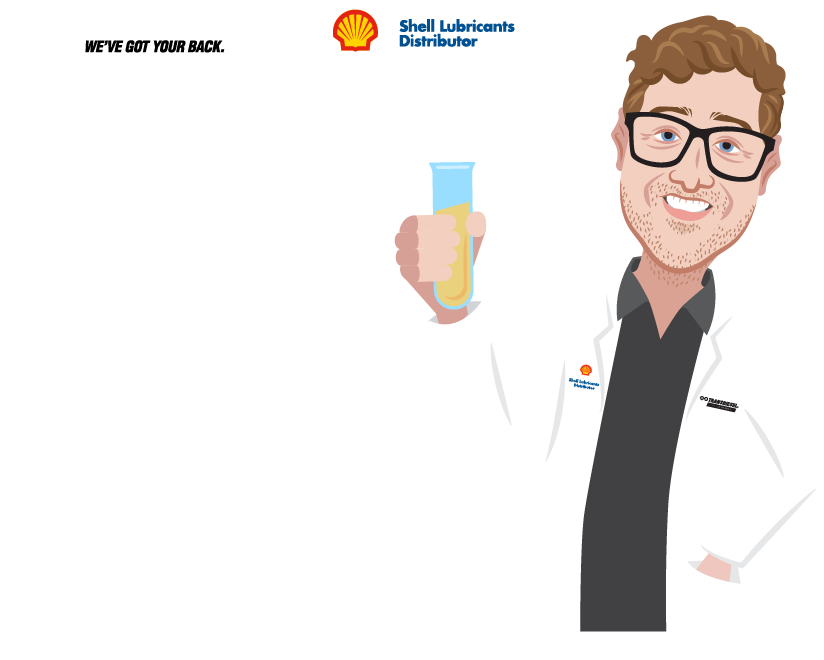
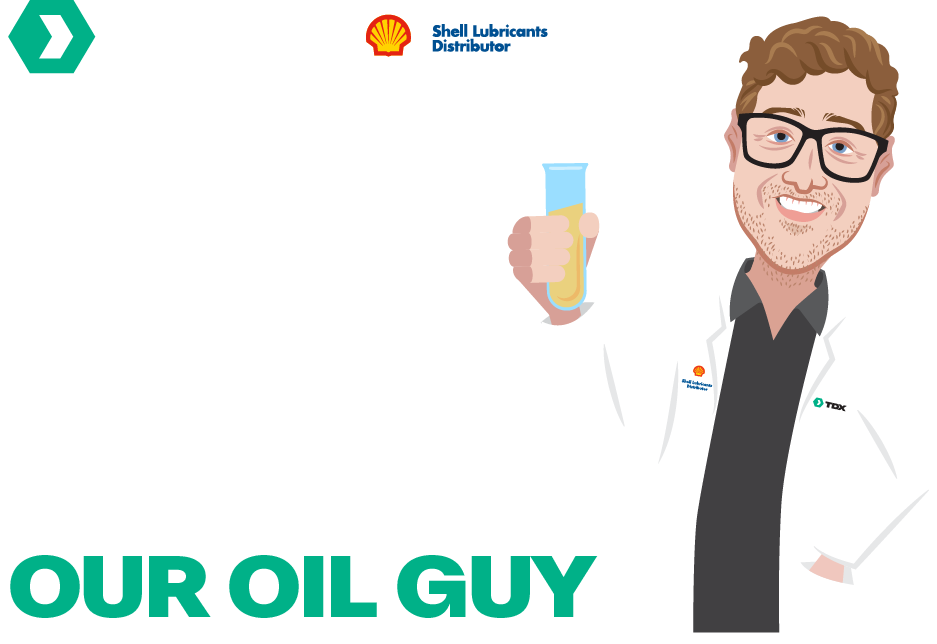
update brand, type etc

diff --git a/html/ask-rob.html b/html/ask-rob.html
@@ -5,23 +5,22 @@
 <head>
 
 
-    <title>TDX. We've got your back.</title>
+    <title>TDX. Ask Rob the Oil Guy.</title>
     <meta charset="utf-8" />
     <meta name="viewport" content="width=device-width, minimum-scale=1, initial-scale=1, shrink-to-fit=no">
-    <meta name="twitter:title" property="og:title" content="TDX. We've got your back." />
+    <meta name="twitter:title" property="og:title" content="TDX. Ask Rob the Oil Guy." />
     <meta name="twitter:card" content="TDX Ltd">
     <meta name="twitter:site" property="og:site_name" content="TDX Ltd" />
-    <meta name="description" property="og:description" content="100% Kiwi owned & operated, serving New Zealand’s equipment needs since 1980." />
+    <meta name="description" property="og:description" content="100% Kiwi owned & operated, serving New Zealand's equipment needs since 1980." />
     <meta name="twitter:image" property="og:image" content="https://www.tdxltd.co.nz/images/icons/200x200profile.png" />
     <meta property="og:type" content="website" />
-    <meta name="twitter:url" property="og:url" content="https://www.tdxltd.co.nz" />
-    <link rel="apple-touch-icon-precomposed" sizes="76x76" href="/images/icons/apple-touch-icon-76x76-precomposed.png">
-    <link rel="apple-touch-icon-precomposed" sizes="120x120" href="/images/icons/apple-touch-icon-120x120-precomposed.png">
-    <link rel="apple-touch-icon-precomposed" sizes="152x152" href="/images/icons/apple-touch-icon-152x152-precomposed.png">
-    <link rel="apple-touch-icon-precomposed" sizes="167x167" href="/images/icons/apple-touch-icon-167x167-precomposed.png">
-    <link rel="apple-touch-icon-precomposed" sizes="180x180" href="/images/icons/apple-touch-icon-180x180-precomposed.png">
-    <link rel="icon" sizes="192x192" href="/images/icons/favicon-192.png">
-    <link rel="shortcut icon" type="image/x-icon" href="/images/icons/favicon.ico">
+    <meta name="twitter:url" property="og:url" content="https://www.tdxltd.co.nz/ask-rob" />
+
+    <link rel="icon" href="/favicon.ico">
+    <link rel="icon" href="/images/icons/icon.svg" type="image/svg+xml">
+    <link rel="apple-touch-icon" sizes="180x180" href="/images/icons//apple-touch-icon.png">
+    <link rel="icon" type="image/png" sizes="32x32" href="/images/icons/favicon.png">
+    <link rel="icon" type="image/png" sizes="16x16" href="/images/icons/favicon@0.5x.png">
     
     <!-- css -->
     <style>
@@ -32,14 +31,13 @@
     </style>
     <link rel="stylesheet" type="text/css" href="/css/normalize.css" />
     <link rel="stylesheet" type="text/css" href="/fonts/sf/fonts.css" />
-    <link rel="stylesheet" type="text/css" href="/fonts/roboto/fonts.css" />
+    <link rel="stylesheet" type="text/css" href="/fonts/twk/fonts.css" />
     <link rel="stylesheet" type="text/css" href="/images/icons/icomoon/style.css" />
     <link rel="stylesheet" type="text/css" href="/css/styles.css">
     <link rel="stylesheet" type="text/css" href="/css/styles-additional.css">
     <link rel="stylesheet" type="text/css" href="/css/owl.carousel.min.css">
     <link rel="stylesheet" type="text/css" href="/css/owl.theme.default.css">
 
-    <link rel="stylesheet" type="text/css" href="/fonts/bureau-webfont/stylesheet.css" />
     <link rel="stylesheet" type="text/css" href="/css/ask-rob.css">
 
    
@@ -78,9 +76,9 @@
                 </section>
                 <section>
                     <br>
-                    <h1>Hi, I’m Rob. Technical Oils &amp; Lubricants Engineer at TDX, New Zealand’s distributor for Shell Lubricants.</h1>
+                    <h1>Hi, I'm Rob. Technical Oils &amp; Lubricants Engineer at TDX, New Zealand's distributor for Shell Lubricants.</h1>
 
-                    <p>I help customers select the best oils and lubricants for their machinery and equipment. In these videos I’m going to be talking to you about a range of topics to give you a better understanding of how they work, and why they’re so important!</p>
+                    <p>I help customers select the best oils and lubricants for their machinery and equipment. In these videos I'm going to be talking to you about a range of topics to give you a better understanding of how they work, and why they're so important!</p>
 
                 </section>
 

diff --git a/css/ask-rob.css b/css/ask-rob.css
@@ -5,7 +5,7 @@
     background-size: 100% auto;
     background-position: top center;
     font-family: -apple-system, BlinkMacSystemFont, "Segoe UI", Roboto, "Helvetica Neue", Arial, sans-serif;
-    font-family: "sf";
+    font-family: "twk";
     font-weight: 300;
     font-size: 16px;
 }
@@ -29,15 +29,27 @@ main p {
     font-size: 1em !important;
 }
 main h1 {
-    font-family: 'bureau';
-    font-size:2.8em;
-    line-height: 1em;
+    font-family: 'twk';
+    font-size:2.4em;
+    line-height: 1.2em;
     max-width: 80%;
+    color: rgba(87,166,123,1.0);
 }
 main h2 {
-    font-family: 'bureau';
+    font-family: 'twk';
     font-size:2em;
     line-height: 1.1em;
+    color: rgba(87,166,123,1.0);
+
+}
+
+main h3 {
+    font-family: 'twk';
+    font-size:1.6em;
+    letter-spacing: 0;
+    line-height: 1.1em;
+    color: rgba(87,166,123,1.0);
+
 }
 
 
@@ -124,7 +136,7 @@ article.footnote p {
         justify-content: center;
     }
     picture.titleMain img {
-        width:70%;
+        width:90%;
         height:auto;
     }
 }
